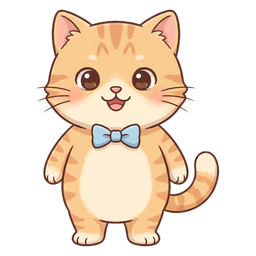
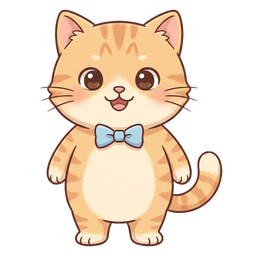
寵物新增姿勢圖（小橘、小黑、驚驚：開心／睡覺／被摸／低心情）與姿勢切換，第一次使用用正常站姿

Changed region(s): [[0.1562, 0.0312, 0.875, 0.9688], [0.3438, 0.8125, 0.375, 0.8438]]

diff --git a/shared/pet.js b/shared/pet.js
@@ -8,9 +8,12 @@
   var BASE = (document.currentScript && document.currentScript.src)
     ? document.currentScript.src.replace(/pet\.js(\?.*)?$/, '') : 'shared/';
   var CHARS = [
-    {id:'cat1', name:'小橘',   img:BASE+'pet/cat1.png', tail:' 喵～'},
-    {id:'cat2', name:'小黑',   img:BASE+'pet/cat2.png', tail:' 喵。'},
-    {id:'jing', name:'驚驚',   img:BASE+'pet/jing.png', tail:' 喵？'},
+    {id:'cat1', name:'小橘',   img:BASE+'pet/cat1.png', tail:' 喵～',
+      poses:{joy:BASE+'pet/cat1_joy.png', sleep:BASE+'pet/cat1_sleep.png', pet:BASE+'pet/cat1_pet.png', sad:BASE+'pet/cat1_sad.png'}},
+    {id:'cat2', name:'小黑',   img:BASE+'pet/cat2.png', tail:' 喵。',
+      poses:{joy:BASE+'pet/cat2_joy.png', sleep:BASE+'pet/cat2_sleep.png', pet:BASE+'pet/cat2_pet.png', sad:BASE+'pet/cat2_sad.png'}},
+    {id:'jing', name:'驚驚',   img:BASE+'pet/jing.png', tail:' 喵？',
+      poses:{joy:BASE+'pet/jing_joy.png', sleep:BASE+'pet/jing_sleep.png', pet:BASE+'pet/jing_pet.png', sad:BASE+'pet/jing_sad.png'}},
     {id:'hua',  name:'花花',   img:BASE+'pet/hua.png',  tail:' 喵～'},
     {id:'boy',  name:'小男生', img:BASE+'pet/boy.png',  tail:''},
     {id:'girl', name:'小女生', img:BASE+'pet/girl.png', tail:'～'}
@@ -34,6 +37,7 @@
   '.sp-img{width:100%;height:100%;object-fit:contain;display:block;pointer-events:none;-webkit-user-drag:none;transform-origin:50% 100%;filter:drop-shadow(0 3px 5px rgba(0,0,0,.2));animation:sp-breathe 3.2s ease-in-out infinite}',
   '.sp-pet.drag .sp-img{animation:none;transform:scale(1.12) rotate(-5deg)}',
   '.sp-pet.sleep .sp-img{animation:none;transform:rotate(-12deg);opacity:.88}',
+  '.sp-pet.sleep.sp-posed .sp-img{transform:none;opacity:1;animation:sp-breathe 3.2s ease-in-out infinite}',
   '.sp-shadow{position:absolute;left:50%;bottom:-2px;width:56%;height:8%;border-radius:50%;background:rgba(0,0,0,.35);transform:translateX(-50%);opacity:.2;filter:blur(2px);pointer-events:none}',
   '.sp-zzz{position:absolute;right:-6px;top:-2px;font-size:14px;font-weight:700;font-style:italic;color:var(--gray,#64748b);display:none;animation:sp-z 1.8s ease-in-out infinite;pointer-events:none}',
   '.sp-pet.sleep .sp-zzz{display:block}',
@@ -173,6 +177,19 @@
   var HEART = '<svg viewBox="0 0 24 24"><path d="M20.8 4.6a5.5 5.5 0 0 0-7.8 0L12 5.7l-1-1.1a5.5 5.5 0 0 0-7.8 7.8l1 1.1L12 21l7.8-7.5 1-1.1a5.5 5.5 0 0 0 0-7.8z"/></svg>';
   var pet = el('div','sp-pet');
   var img = el('img','sp-img'); img.alt = ''; img.draggable = false; img.src = ch().img;
+  /* 姿勢：joy 開心／sleep 睡覺／pet 享受被摸／sad 低心情；角色沒有該姿勢圖就用基本圖 */
+  var curSrc = img.getAttribute('src'), joyUntil = 0, poseT = 0;
+  function poseSrc(name){ var c = ch(); return (name !== 'base' && c.poses && c.poses[name]) || c.img; }
+  function setPose(name){ var u = poseSrc(name); if(u !== curSrc){ curSrc = u; img.src = u; } }
+  function restPose(){ return (typeof moodV === 'number' && moodV < 20 && awayMs !== null && ch().poses && ch().poses.sad) ? 'sad' : 'base'; }   // 第一次使用（awayMs 為 null）先用正常站姿
+  function syncPose(){                                   // 依目前狀態決定顯示哪張
+    if(Date.now() < joyUntil) return;
+    if(typeof rubbing !== 'undefined' && rubbing) return setPose('pet');
+    if(pet.classList.contains('sleep')) return setPose('sleep');
+    setPose(restPose());
+  }
+  img.addEventListener('error', function(){ if(curSrc !== ch().img){ curSrc = ch().img; img.src = curSrc; } });
+  function preloadPoses(){ var c = ch(); if(c.poses) Object.keys(c.poses).forEach(function(k){ new Image().src = c.poses[k]; }); }
   var bubble = el('div','sp-bubble');
   var ring = el('div','sp-ring');
   var hud = el('div','sp-pethud', HEART+'<span class="sp-lbl">心情</span><div class="sp-bar"><div class="sp-fill"></div></div><span class="sp-num"></span><button class="sp-done" type="button">完成</button>');
@@ -244,6 +261,7 @@
   function renderMood(){
     [].forEach.call(document.querySelectorAll('.sp-fill'), function(f){ f.style.width = moodV + '%'; });
     [].forEach.call(document.querySelectorAll('.sp-num'), function(n){ n.textContent = moodV; });
+    syncPose();
   }
   function celebrate(){ hearts(7); anim('sp-joy', 900); say('心情滿分'+ch().tail, 2400); }
   function touchLast(){ set(K.last, String(Date.now())); }       // 記下「最後一次在首頁」的時間
@@ -269,6 +287,7 @@
   }
   function anim(cls, ms){
     pet.classList.remove('sp-joy','sp-shake','sp-pat'); void pet.offsetWidth; pet.classList.add(cls);
+    if(cls === 'sp-joy'){ joyUntil = Date.now() + ms + 250; setPose('joy'); clearTimeout(poseT); poseT = setTimeout(syncPose, ms + 250); }
     setTimeout(function(){ pet.classList.remove(cls); }, ms);
   }
   function heart(dx,dy){
@@ -308,13 +327,13 @@
     if(shift) hud.style.transform = 'translateX(calc(-50% - ' + shift + 'px))';
   }
   function startRub(){
-    closeMenu(); rubbing = true; ring.classList.add('on'); say('摸摸我～', 1800);
+    closeMenu(); rubbing = true; setPose('pet'); ring.classList.add('on'); say('摸摸我～', 1800);
     hud.classList.add('on'); setMood(getMood()+1); fitHud();            // 每次進入摸摸只 +1
     clearTimeout(rubEnd); rubEnd = setTimeout(function(){ stopRub(true); }, 8000);
   }
   function stopRub(reopen){                            // reopen=true：摸完回到選單
     var was = rubbing;
-    rubbing = false; ring.classList.remove('on'); hud.classList.remove('on'); clearTimeout(rubEnd);
+    rubbing = false; syncPose(); ring.classList.remove('on'); hud.classList.remove('on'); clearTimeout(rubEnd);
     if(was && reopen && !modal && !dragging) openMenu();
   }
   function rubTap(){                                     // 摸摸模式：每點一下角色 +1
@@ -352,7 +371,7 @@
   window.addEventListener('resize', function(){ loadPos(); if(menuOpen) openMenu(); });
 
   /* ---------- 選單動作 ---------- */
-  function setChar(i){ ci = (i + CHARS.length) % CHARS.length; set(K.char, ch().id); img.src = ch().img; updateMenuHead(); }
+  function setChar(i){ ci = (i + CHARS.length) % CHARS.length; set(K.char, ch().id); curSrc = ''; setPose(restPose()); preloadPoses(); updateMenuHead(); }
   function hide(){ closeMenu(); stopRub(); pet.style.display = 'none'; tab.style.display = 'block'; set(K.hidden,'1'); }
   function show(){ pet.style.display = ''; tab.style.display = 'none'; set(K.hidden,'0'); loadPos(); }
   tab.addEventListener('click', show);
@@ -619,15 +638,20 @@
   }
 
   /* ---------- 閒置：偶爾睡覺、心情好時開心跳一下、肚子餓了提醒 ---------- */
+  function startSleep(){
+    pet.classList.add('sleep'); if(ch().poses && ch().poses.sleep) pet.classList.add('sp-posed');
+    syncPose(); setTimeout(wake, 6000);
+  }
+  function wake(){ pet.classList.remove('sleep','sp-posed'); syncPose(); }
   var lastHungry = 0;
   setInterval(function(){
     if(pet.style.display === 'none' || dragging || menuOpen || rubbing || modal) return;
     var mood = getMood(), r = Math.random();
     if(mood < 20 && Date.now() - lastHungry > 90000){ lastHungry = Date.now(); say('陪我玩嘛'+ch().tail, 2200); }
     else if(mood >= 80 && r < .18) anim('sp-joy', 900);
-    else if(r < .15){ pet.classList.add('sleep'); setTimeout(function(){ pet.classList.remove('sleep'); }, 6000); }
+    else if(r < .15){ startSleep(); }
   }, 7000);
-  pet.addEventListener('pointerdown', function(){ pet.classList.remove('sleep'); });
+  pet.addEventListener('pointerdown', function(){ wake(); });
 
   /* ---------- 招呼語（第一次見面／好久不見／剛離開又回來／依台灣時間） ---------- */
   function greeting(){
@@ -646,6 +670,7 @@
 
   /* ---------- 啟動 ---------- */
   CHARS.forEach(function(c){ new Image().src = c.img; });
+  preloadPoses();
   renderMood(); touchLast();
   if(get(K.hidden) === '1'){ pet.style.display = 'none'; tab.style.display = 'block'; }
   else {

diff --git a/index.html b/index.html
@@ -277,6 +277,6 @@ document.querySelector('.entry-grid').addEventListener('click',function(e){
   try{navigator.sendBeacon('https://store-click-stats.tksqftksqf.workers.dev/hit',JSON.stringify({c:c.getAttribute('href'),t:c.querySelector('.entry-title').textContent}))}catch(err){}
 });
 </script>
-<script src="shared/pet.js?v=20261127p"></script>
+<script src="shared/pet.js?v=20261127t"></script>
 </body>
 </html>
